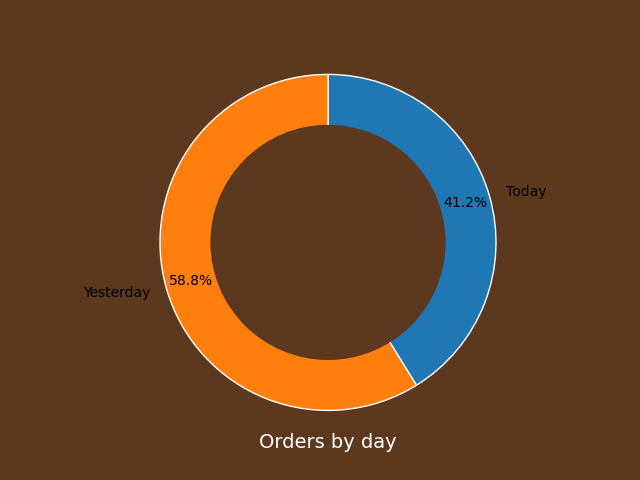
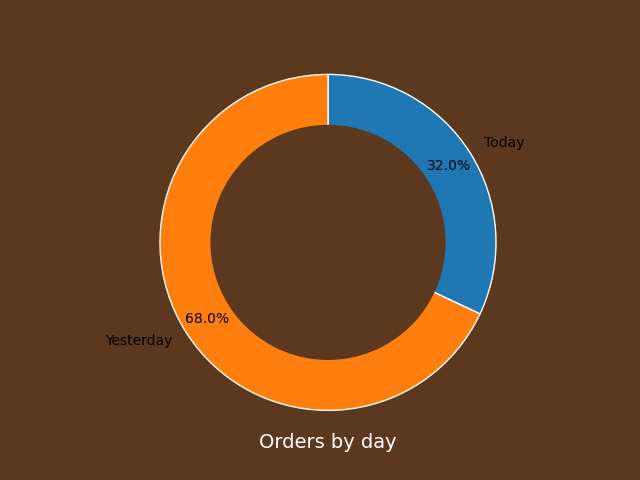
sales
sales orders

diff --git a/main.py b/main.py
@@ -116,6 +116,7 @@ class Main(MDApp):
 
     graph = StringProperty("")
     bar = StringProperty("")
+    user_graph = StringProperty("")
 
     def update_text(self, button_text):
         text_input = self.root.ids.input
@@ -129,7 +130,6 @@ class Main(MDApp):
 
     def on_start(self):
         Clock.schedule_once(self.keyboard_hooker, .1)
-        # self.display_sales()
         self.get_users()
         self.generate_pie_chart()
         self.display_manage()
@@ -160,26 +160,32 @@ class Main(MDApp):
             print(f"Username: {user['username']}, Password: {user['password']}")
 
     def display_sales(self):
-        self.root.ids.sales.data = {}
-        users_data = self.get_user_data()
+        if network:
+            self.root.ids.sales.data = {}
+            users_data = FB.get_user_sales(FB(), self.username, self.user_type)
+            today = users_data[0]
+            yes_day = users_data[1]
+            self.generate_user_pie_chart(today, yes_day)
 
-        if not users_data:
-            self.root.ids.sales.data.append(
-                {
-                    "viewclass": "Deco",
-                    "name": "No data Yet!",
-                }
-            )
-        else:
-            users = users_data["users"]
-            for i, user in enumerate(users):
+            if not today:
                 self.root.ids.sales.data.append(
                     {
-                        "viewclass": "Deco",
-                        "name": user["username"],
-                        "id": str(i)
+                        "viewclass": "Daily",
+                        "name": "No data Yet!",
                     }
                 )
+            else:
+                for user_id, user_info in today.items():
+                    self.root.ids.sales.data.append(
+                        {
+                            "viewclass": "Daily",
+                            "item": user_info["total_item"],
+                            "price": user_info["total_price"],
+                            "idd": user_id
+                        }
+                    )
+        else:
+            toast("No internet!")
 
     def display_manage(self):
         self.root.ids.food.data = {}
@@ -204,29 +210,33 @@ class Main(MDApp):
                 )
 
     def display_main(self):
-        self.root.ids.food.data = {}
-        data = FB.get_main(FB())
+        if network:
+            self.root.ids.food.data = {}
+            data = FB.get_main(FB())
 
-        if data:
-            no = len(data)
-            self.total_main = str(no)
+            if data:
+                no = len(data)
+                self.total_main = str(no)
 
-            for i, y in data.items():
+                for i, y in data.items():
+                    self.root.ids.food.data.append(
+                        {
+                            "viewclass": "Food",
+                            "name": y["name"],
+                            "price": y["price"],
+                        }
+                    )
+            else:
+                self.total_main = "0"
                 self.root.ids.food.data.append(
                     {
-                        "viewclass": "Food",
-                        "name": y["name"],
-                        "price": y["price"],
+                        "viewclass": "Nofood",
+                        "name": "No data Yet!",
                     }
                 )
+
         else:
-            self.total_main = "0"
-            self.root.ids.food.data.append(
-                {
-                    "viewclass": "Nofood",
-                    "name": "No data Yet!",
-                }
-            )
+            toast("no internet!")
 
     def selected_item(self):
         self.root.ids.selected.data = {}
@@ -385,7 +395,6 @@ class Main(MDApp):
         self.selected_item()
         self.admin_list = FB.get_admin(FB())
         self.orders_list = FB.get_all_orders(FB())
-        self.orders_list = FB.get_all_orders(FB())
         self.count_data()
 
     def check(self, text):
@@ -471,6 +480,56 @@ class Main(MDApp):
 
         # Save the image
         plt.savefig("components/pie_chart.png")
+
+    def generate_user_pie_chart(self, today, yes_day):
+
+        if today:
+            one = len(today)
+
+        else:
+            one = 1
+        if yes_day:
+            two = len(yes_day)
+
+        else:
+            two = 1
+
+        total = one + two
+
+        # Calculate the percentages
+        percentage1 = (one / total) * 100
+        percentage2 = (two / total) * 100
+
+        # Data for the pie chart
+        labels = ["Today", "Yesterday"]
+        values = [percentage1, percentage2]
+
+        # Partial Pie and Donut combination
+        fig, ax = plt.subplots(facecolor="#1e1f22")
+        ax.set_facecolor("#1e1f22")
+
+        # Set the color of the labels to white
+        label_colors = 'white'
+
+        ax.pie(values, labels=labels, autopct='%1.1f%%', startangle=90, pctdistance=0.85,
+               wedgeprops=dict(width=0.4, edgecolor='w'), textprops=dict(fontsize=10, color=label_colors),
+               counterclock=False)
+
+        # Draw a white circle at the center to create a hole
+        centre_circle = plt.Circle((0, 0), 0.70, fc="#1e1f22")
+        fig = plt.gcf()
+        fig.gca().add_artist(centre_circle)
+
+        ax.set_xlabel('Orders by day', fontsize=14)
+        ax.xaxis.label.set_color('white')
+
+        # Equal aspect ratio ensures that pie is drawn as a circle.
+        ax.axis('equal')
+
+        # Save the image
+        plt.savefig("components/user_pie_chart.png")
+
+        self.user_graph = "components/user_pie_chart.png"
 
     """ 
                         GRAPH AND CHART
@@ -596,28 +655,32 @@ class Main(MDApp):
 
     def get_users(self):
         # Assuming FB is a class with a get_user method
-        data = FB.get_user(FB())
-        users_data = []
+        if network:
+            data = FB.get_user(FB())
+            users_data = []
 
-        for user_dict in data:
-            for user_key, user_info in user_dict.items():
-                users_data.append(user_info['Info'])
+            for user_dict in data:
+                for user_key, user_info in user_dict.items():
+                    users_data.append(user_info['Info'])
 
-        if not users_data:
-            self.root.ids.studs.data.append(
-                {
-                    "viewclass": "Deco",
-                    "name": "No data Yet!",
-                }
-            )
-        else:
-            for i, user in enumerate(users_data):
+            if not users_data:
                 self.root.ids.studs.data.append(
                     {
                         "viewclass": "Deco",
-                        "name": user["user_name"],
+                        "name": "No data Yet!",
                     }
                 )
+            else:
+                for i, user in enumerate(users_data):
+                    self.root.ids.studs.data.append(
+                        {
+                            "viewclass": "Deco",
+                            "name": user["user_name"],
+                        }
+                    )
+
+        else:
+            toast("no internet")
 
     """
                 END LOGIN FUNCTIONS

diff --git a/database.py b/database.py
@@ -190,8 +190,36 @@ class FireBase:
 
             return comp
 
+    def get_user_sales(self, user, category):
+        import firebase_admin
+        firebase_admin._apps.clear()
+        from firebase_admin import credentials, initialize_app, db
+        if not firebase_admin._apps:
+            cred = credentials.Certificate("credential/farmzon-abdcb-c4c57249e43b.json")
+            initialize_app(cred, {'databaseURL': 'https://farmzon-abdcb.firebaseio.com/'})
+            ref = (db.reference("Restaurant").child("Users").child(category).child(user).child("Orders")
+                   .child(self.year()).child(self.month_date()))
+
+            data1 = ref.get()
+
+            current_date_obj = datetime.strptime(self.month_date(), "%m_%d")
+
+            # Calculate the previous date
+            previous_date_obj = current_date_obj - timedelta(days=1)
+
+            # Format the previous date as a string in the same format
+            previous_date_str = previous_date_obj.strftime("%m_%d")
+
+            store = (db.reference("Restaurant").child("Users").child(category).child(user).child("Orders")
+                     .child(self.year()).child(previous_date_str))
+
+            data2 = store.get()
+
+            comp = data1, data2
+
+            return comp
+
     def generate_id(self):
-        # Generate a unique order ID based on timestamp and counter
         timestamp = datetime.now().strftime('%Y%m%d%H%M%S%f')
         order_id = timestamp
         return order_id
@@ -210,9 +238,6 @@ class FireBase:
 
         return f"{m}_{d}"
 
-
-# FireBase.register_order(FireBase(), "lul", [{'product_name': 'john_doe', 'quantity': '1', 'price': '500'}, {'product_name': 'jane_smith', 'quantity': '1', 'price': '500'}, {'product_name': 'bob_jones', 'quantity': '1', 'price': '500'}])
-# FireBase.get_main(FireBase())
-# FireBase.register_user(FireBase(), "Admin", "joe", "9060")
 # FireBase.get_user(FireBase())
-#FireBase.get_all_orders(FireBase())
+# FireBase.get_all_orders(FireBase())
+# FireBase.get_user_sales(FireBase(), "joo", "Waiter")
